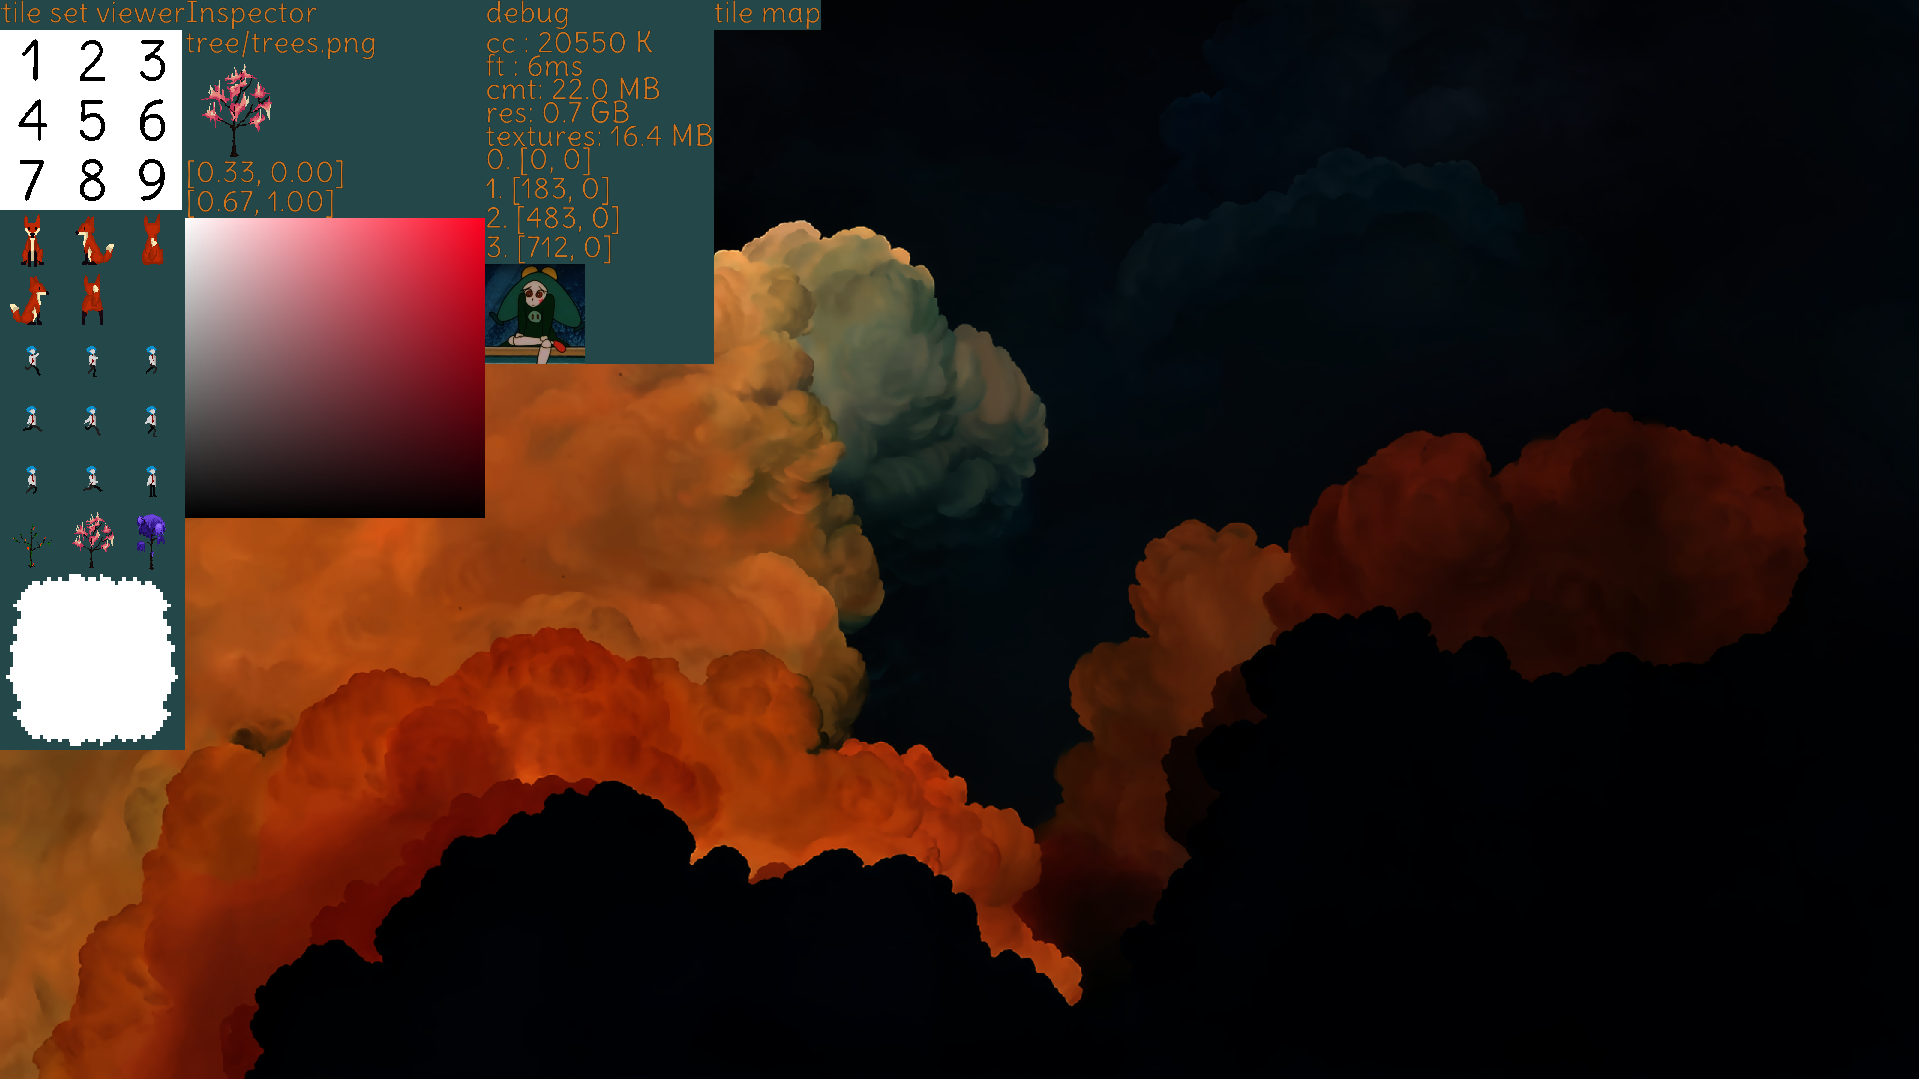
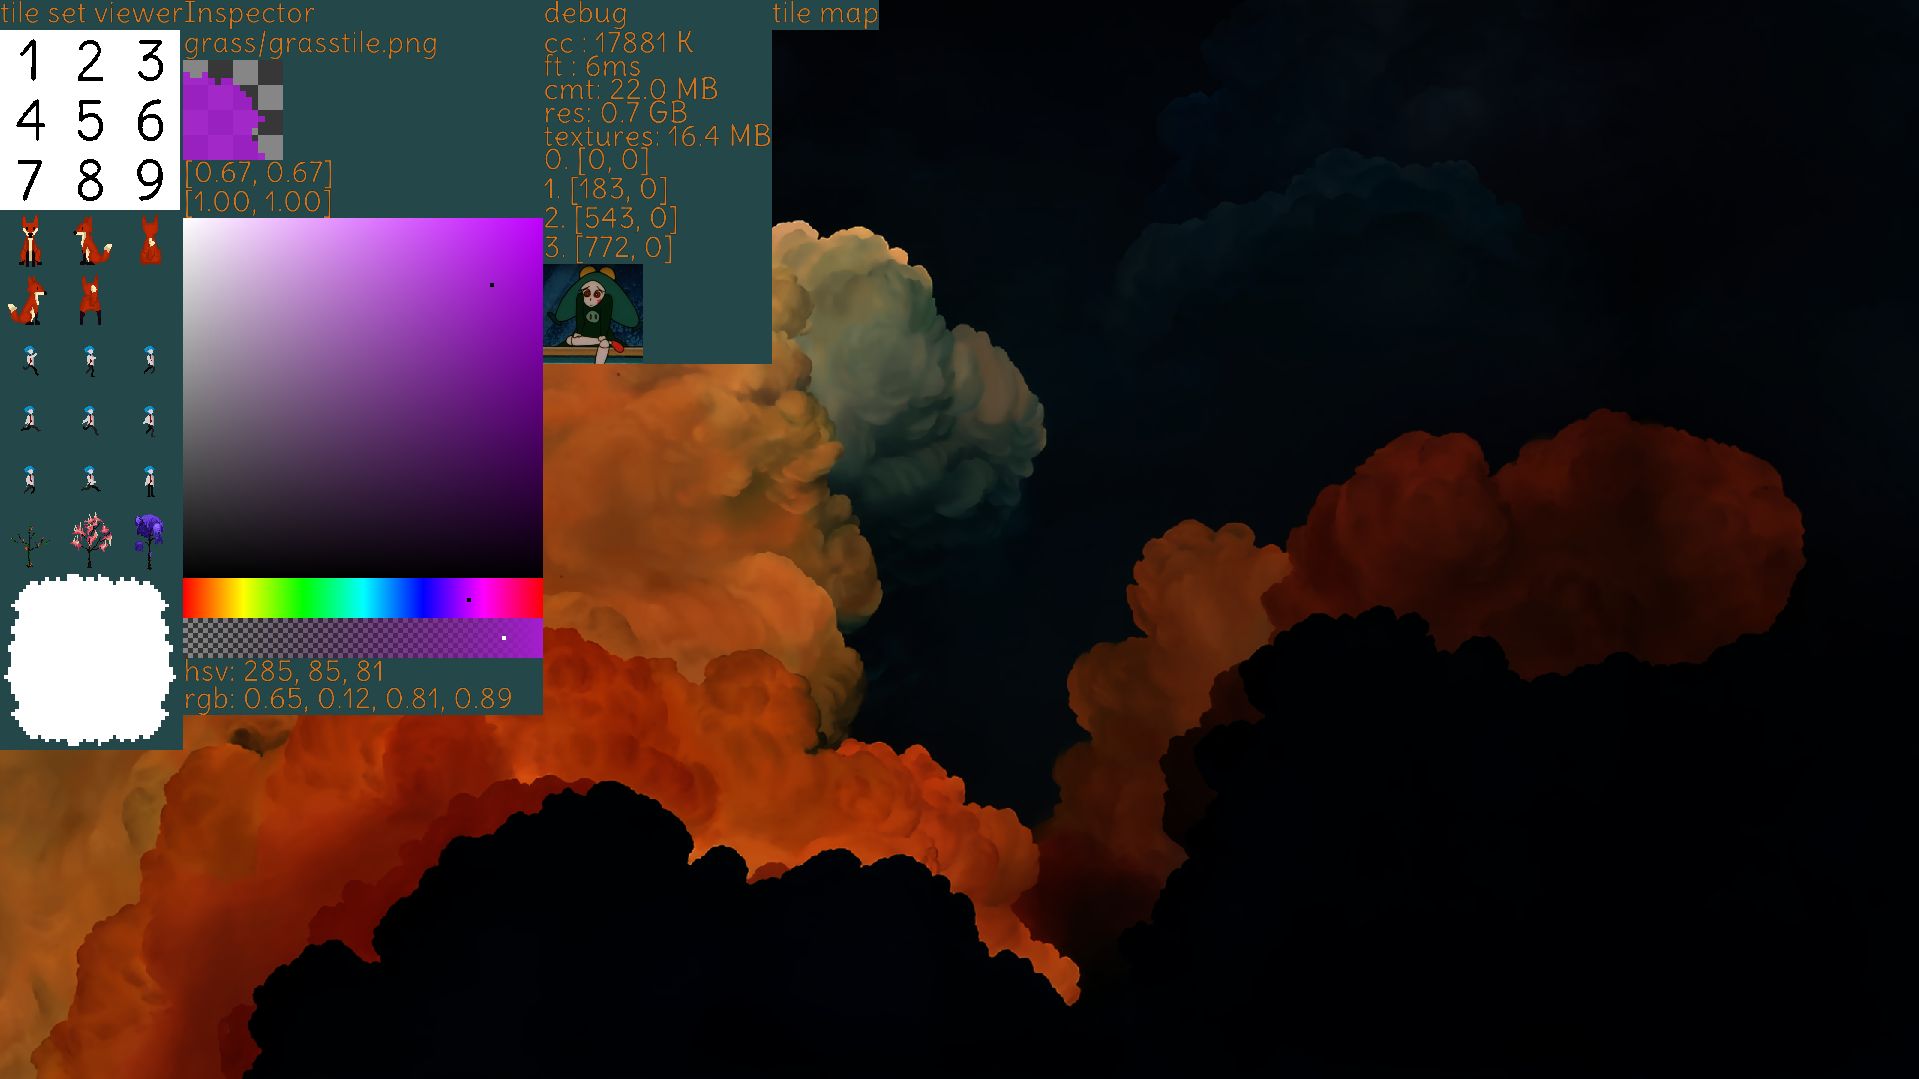
styling and radme

Changed region(s): [[0.0, 0.0, 0.4612, 0.6728], [0.0, 0.2753, 0.0615, 0.3058], [0.0, 0.0918, 0.0307, 0.1223]]

diff --git a/code/editor/editor.cpp b/code/editor/editor.cpp
@@ -243,6 +243,7 @@ void ed_update(State *state, OS_Event_list *events, f32 delta)
 											ui_alpha_picker(ed_state->cxt, ed_state->hsva.xyz, &ed_state->hsva.w, str8_lit("alpha picker thing"));
 										}
 									}
+									
 									s32 hue = ed_state->hsva.x;
 									s32 sat = ed_state->hsva.y * 100;
 									s32 val = ed_state->hsva.z * 100;

diff --git a/code/game/game.cpp b/code/game/game.cpp
@@ -111,14 +111,6 @@ void update_and_render(void *memory, f32 delta)
 	
 	ed_update(state, &state->events, delta);
 	
-	// hue bar
-	
-	// white bg
-	{
-		//Rect box_rect = rect(400, 400, 600, 450);
-		//d_draw_rect(box_rect, D_COLOR_WHITE);
-	}
-	
 	//d_pop_proj_view();
 	
 	r_submit(&draw->list, win_size);

diff --git a/code/editor/editor.h b/code/editor/editor.h
@@ -3,7 +3,7 @@
 #ifndef EDITOR_H
 #define EDITOR_H
 
-#define ED_THEME_BG v4f{{0.14, 0.282, 0.286, 1}}
+#define ED_THEME_BG v4f{{0.14, 0.282, 0.286, 0.8}}
 
 #define ED_THEME_TEXT v4f{{0.81, 0.46, 0.13, 1}}
 

diff --git a/README.md b/README.md
@@ -10,54 +10,55 @@
 ## Table of Contents
 
 1. [About](#about)
-2. [Build](#build)
-   - [Windows](#windows)
-   - [Linux / Mac](#linux--mac)
-3. [Contributions](#contributions)
-4. [Project Structure](#project-structure)
-
-## About
-Hi, this is my game engine. Nice to meet you. Goodnight.
-
-I am making a demo with it. As the demo requires more features, I will add them to the engine. Until then, standalone engine builds / user documentation isn't reasonable to maintain because the api will be very unstable until demo release.
-
-<p>
-<img width="800"src="https://github.com/oh-facts/mizu/blob/main/data/misc/screenshot.png">
-</p>
-8/26/24
-
-## Build
-
-As of today, I have revoked the asset directory because it has proprietary art. I will make an alternate directory that uses placeholder stuff. Fonts still work and everywhere you expect to see art, you'll see checkerboard textures.
-
-Arguments: `clean`, `platform`, `release`, `debug`, `app`, `cloc`, `run`
-### Windows
-```
-./build.bat release platform app
-```
-
-### Linux / Mac
-**SDL3** needs to be installed. Also, this doesn't compile on linux/mac yet. I am fixing the compiler errors one by one. I get bored sometimes. Give it a crack if you want. Its all platform related.
-
-`clang` and `gcc` are also valid args. 
-```
-./build.bat release clang platform app
-```
-
-## Contributions
-Make pr.
-
-## Project Structure
-- `asset/` : texture cache and asset system
-- `base/` : common utility functions.
-- `draw/` : high level renderer layer
-- `editor/` : engine editor layer
-- `entity/` : entity system
-- `file/` : file handling
-- `game/` : game and entry point
-- `opengl/` : opengl
-- `os/` : os layer. win32 / linux / sdl abstraction
-- `render/` : low level renderer layer
-- `SDL3/` : sdl3 include headers
-- `stb/` : Sean barrett's stb_image, stb_truetype and stb_sprintf
-- `ui/` : immediate mode UI layer. Used for game and engine tools
+					 2. [Build](#build)
+											- [Windows](#windows)
+																	- [Linux / Mac](#linux--mac)
+																									3. [Contributions](#contributions)
+																																		 4. [Project Structure](#project-structure)
+																																														
+																																														## About
+																																														Hi, this is my game engine. Nice to meet you. Goodnight.
+																																														
+																																														I am making a demo with it. As the demo requires more features, I will add them to the engine. Until then, standalone engine builds / user documentation isn't reasonable to maintain because the api will be very unstable until demo release.
+																																														
+																																														<p>
+																																														<img width="800"src="https://github.com/oh-facts/mizu/blob/main/data/misc/screenshot.png">
+																																														</p>
+																																														8/30/24
+																																														
+																																														## Build
+																																														
+																																														As of today, I have revoked the asset directory because it has proprietary art. I will make an alternate directory that uses placeholder stuff. Fonts still work and everywhere you expect to see art, you'll see checkerboard textures.
+																																														
+																																														Arguments: `clean`, `platform`, `release`, `debug`, `app`, `cloc`, `run`
+																																														### Windows
+																																														```
+																																														./build.bat release platform app
+																																														```
+																																														
+																																														### Linux / Mac
+																																														**SDL3** needs to be installed. Also, this doesn't compile on linux/mac yet. I am fixing the compiler errors one by one. I get bored sometimes. Give it a crack if you want. Its all platform related.
+																																														
+																																														`clang` and `gcc` are also valid args. 
+																																														```
+																																														./build.bat release clang platform app
+																																														```
+																																														
+																																														## Contributions
+																																														Open issue and make pr. Off the top of my head, a linux / mac port would be nice. Or you could work on the renderer to add allow borders for the rects. But work on whatever. I am working on the editor rn.
+																																														
+																																														## Project Structure
+																																														- `asset/` : texture cache and asset system
+																																														- `base/` : common utility functions.
+																																														- `draw/` : high level renderer layer
+																																														- `editor/` : engine editor layer
+																																														- `entity/` : entity system
+																																														- `file/` : file handling
+																																														- `game/` : game and entry point
+																																														- `opengl/` : opengl
+																																														- `os/` : os layer. win32 / linux / sdl abstraction
+																																														- `render/` : low level renderer layer
+																																														- `SDL3/` : sdl3 include headers
+																																														- `stb/` : Sean barrett's stb_image, stb_truetype and stb_sprintf
+																																														- `ui/` : immediate mode UI layer. Used for game and engine tools
+																																														
